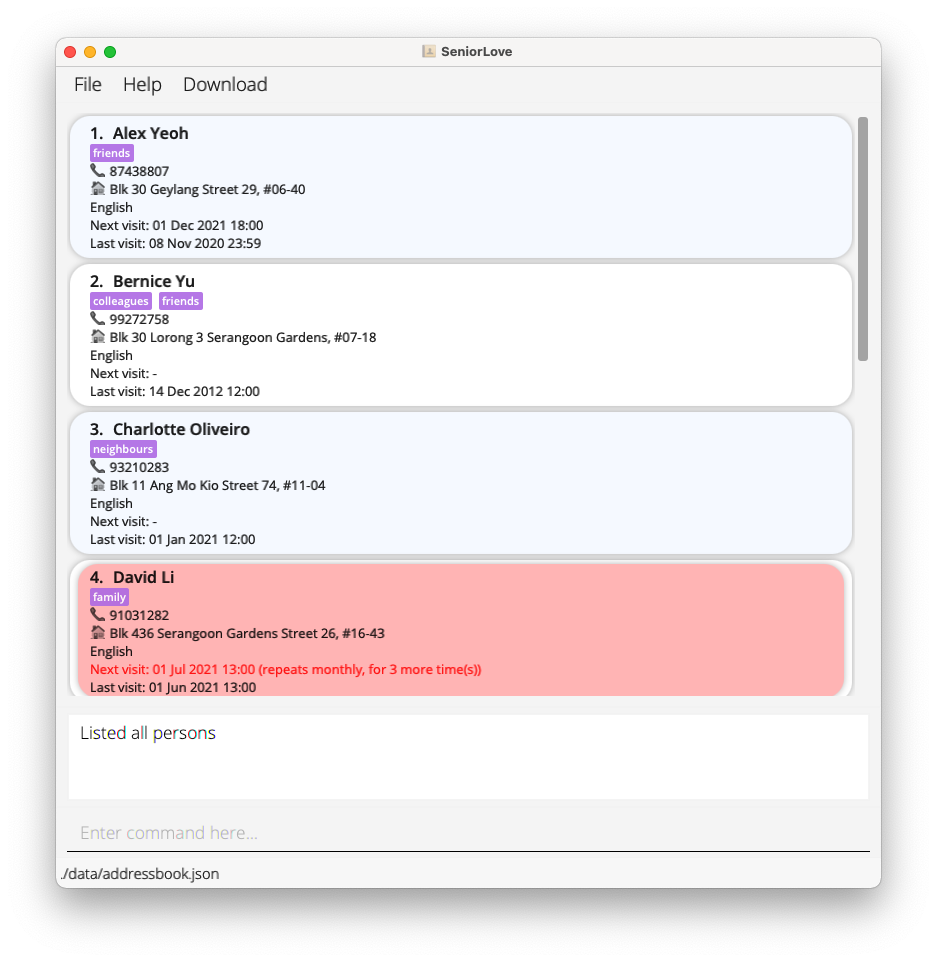
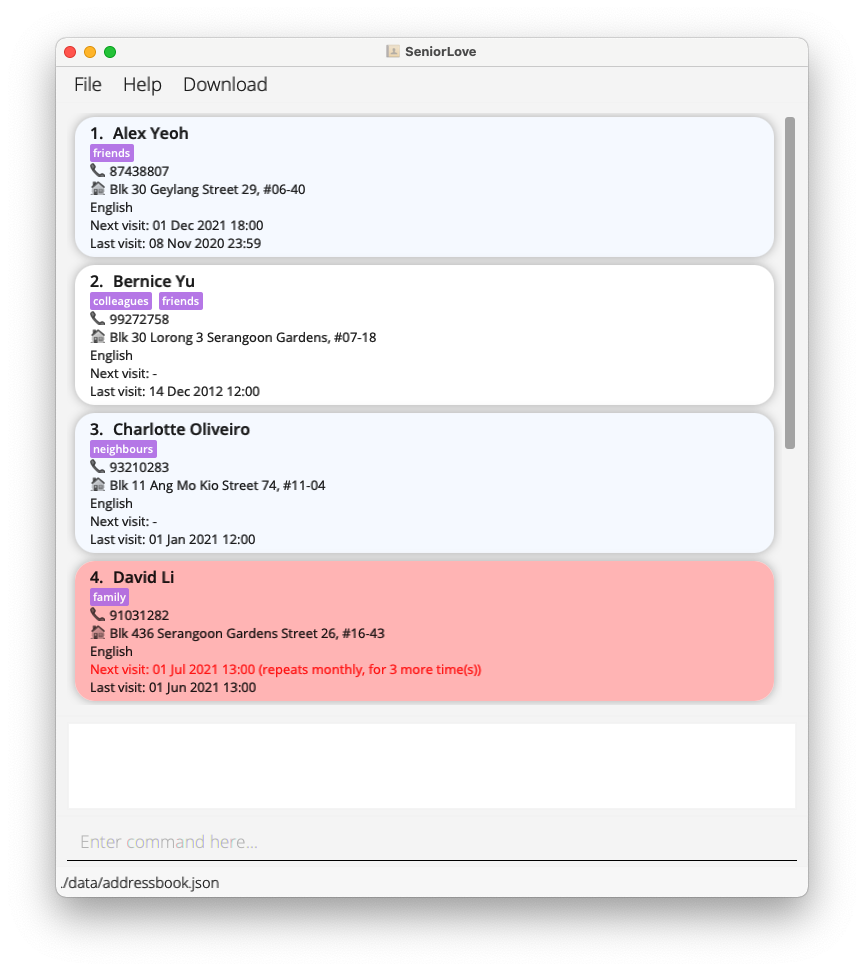
Fix style for the overdue card

diff --git a/src/main/resources/view/LightTheme.css b/src/main/resources/view/LightTheme.css
@@ -96,8 +96,8 @@
 .list-cell {
     -fx-label-padding: 0 0 0 0;
     -fx-background-radius: 20;
-    -fx-background-insets: 3;
-    -fx-effect: dropshadow(gaussian, rgba(0, 0, 0, 0.3), 10, 0, 0, 0);
+    -fx-background-insets: 4 8 4 8;
+    -fx-effect: dropshadow(gaussian, rgba(0, 0, 0, 0.3), 15, 0, 0, 0);
 }
 
 .list-cell:empty {
@@ -114,7 +114,8 @@
 }
 
 .list-cell:filled:selected {
-    -fx-background-color: #a5b8d6;
+    -fx-background-color: #e1f2e2;
+    -fx-effect: dropshadow(gaussian, rgba(0, 0, 0, 0.5), 15, 0, 0, 0);
 }
 
 .list-cell:filled:selected #cardPane {

diff --git a/src/main/resources/view/Extensions.css b/src/main/resources/view/Extensions.css
@@ -22,9 +22,6 @@
 .overdue-card {
     -fx-background-color: #FFB4B4 !important;
     -fx-background-radius: 20;
-    -fx-background-insets: 3, 0, 3, 0;
-    -fx-effect: dropshadow(gaussian, rgba(0, 0, 0, 0.3), 10, 0, 0, 0);
-
 }
 
 .overdue-visit {
